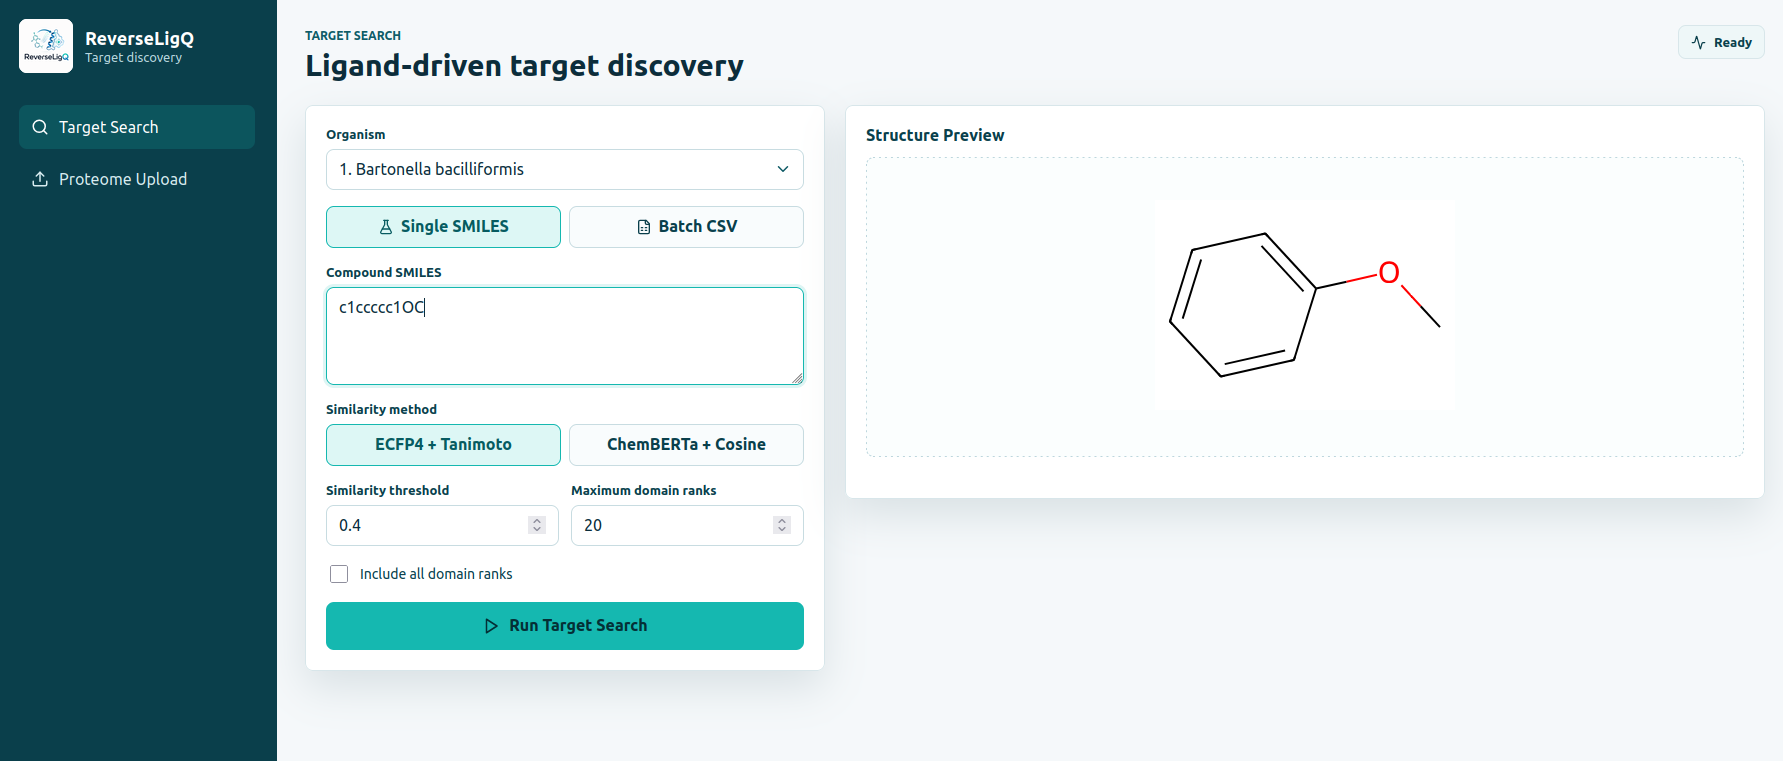
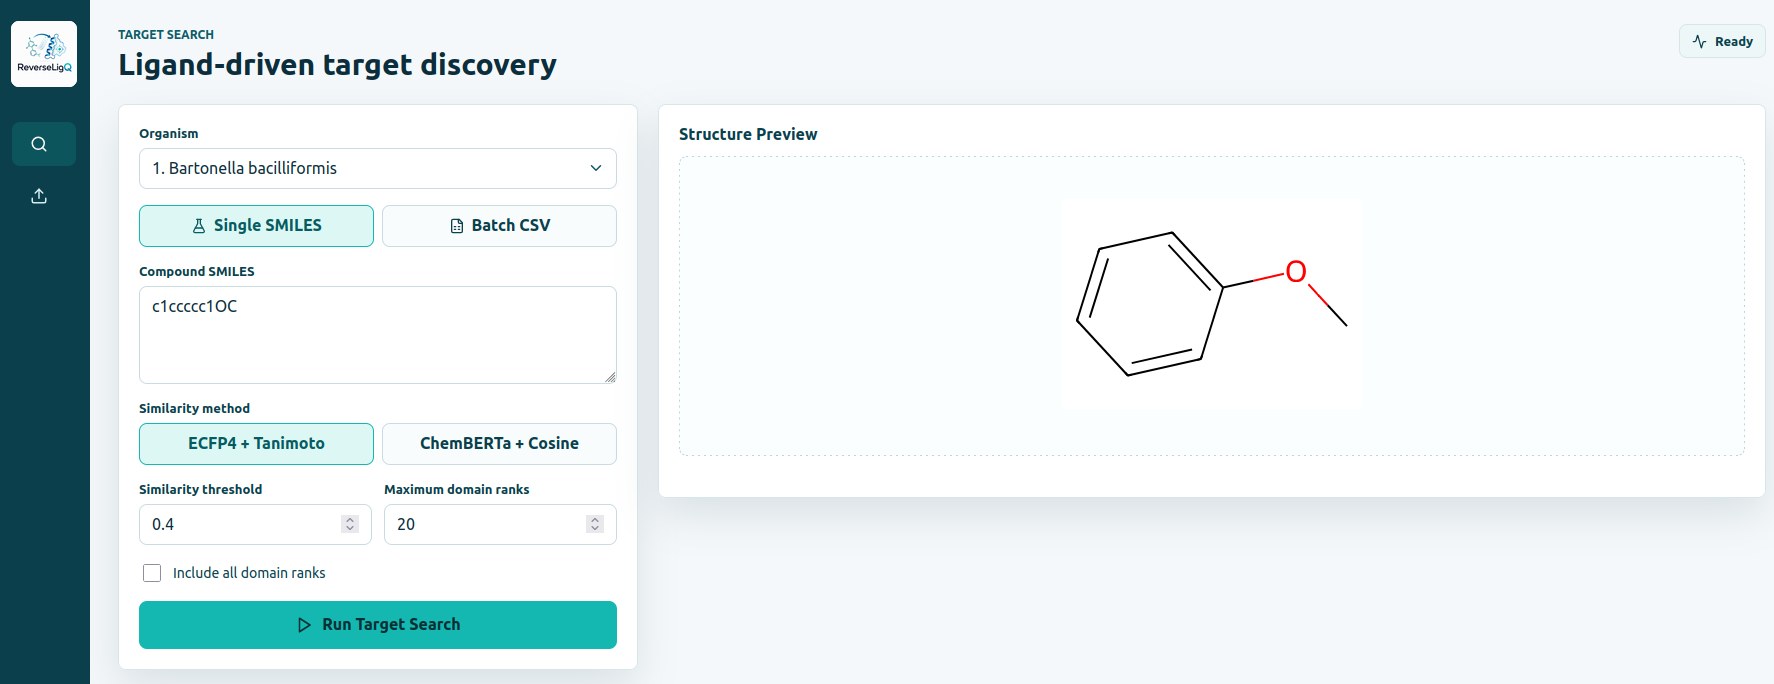
modified sidebar

diff --git a/web/frontend/src/styles.css b/web/frontend/src/styles.css
@@ -46,42 +46,53 @@ button {
 
 .app-shell {
   display: grid;
-  grid-template-columns: 280px minmax(0, 1fr);
+  grid-template-columns: 92px minmax(0, 1fr);
   min-height: 100vh;
 }
 
 .sidebar {
+  position: sticky;
+  top: 0;
+  z-index: 20;
+  width: 92px;
+  min-height: 100vh;
   background: var(--primary-dark);
   color: white;
-  padding: 22px;
+  padding: 20px 14px;
   display: flex;
   flex-direction: column;
-  gap: 32px;
+  gap: 30px;
+  overflow: hidden;
+  transition: width 0.22s ease, padding 0.22s ease, box-shadow 0.22s ease;
+}
+
+.sidebar:hover,
+.sidebar:focus-within {
+  width: 280px;
+  padding: 22px;
+  box-shadow: 14px 0 34px rgba(5, 38, 47, 0.18);
 }
 
 .brand {
   display: flex;
   align-items: center;
-  gap: 12px;
+  justify-content: center;
+  min-height: 76px;
 }
 
 .brand img {
-  width: 54px;
-  height: 54px;
+  width: 66px;
+  height: 66px;
   object-fit: contain;
   border-radius: 8px;
   background: white;
+  transition: width 0.22s ease, height 0.22s ease;
 }
 
-.brand strong {
-  display: block;
-  font-size: 18px;
-}
-
-.brand span {
-  display: block;
-  color: #b8d7df;
-  font-size: 13px;
+.sidebar:hover .brand img,
+.sidebar:focus-within .brand img {
+  width: 82px;
+  height: 82px;
 }
 
 .nav {
@@ -99,8 +110,35 @@ button {
   gap: 10px;
   min-height: 44px;
   border-radius: 8px;
-  padding: 0 12px;
+  padding: 0;
+  justify-content: center;
   text-align: left;
+  white-space: nowrap;
+  overflow: hidden;
+  transition: padding 0.22s ease;
+}
+
+.nav button svg {
+  flex: 0 0 auto;
+}
+
+.nav-label {
+  max-width: 0;
+  opacity: 0;
+  overflow: hidden;
+  transition: max-width 0.22s ease, opacity 0.16s ease;
+}
+
+.sidebar:hover .nav button,
+.sidebar:focus-within .nav button {
+  justify-content: flex-start;
+  padding: 0 12px;
+}
+
+.sidebar:hover .nav-label,
+.sidebar:focus-within .nav-label {
+  max-width: 180px;
+  opacity: 1;
 }
 
 .nav button.active,
@@ -667,10 +705,32 @@ td {
     position: sticky;
     top: 0;
     z-index: 10;
+    width: auto;
+    min-height: 0;
     flex-direction: row;
     align-items: center;
     justify-content: space-between;
     padding: 12px 16px;
+    overflow: visible;
+    box-shadow: none;
+  }
+
+  .sidebar:hover,
+  .sidebar:focus-within {
+    width: auto;
+    padding: 12px 16px;
+    box-shadow: none;
+  }
+
+  .brand {
+    min-height: 0;
+  }
+
+  .brand img,
+  .sidebar:hover .brand img,
+  .sidebar:focus-within .brand img {
+    width: 54px;
+    height: 54px;
   }
 
   .nav {
@@ -679,6 +739,14 @@ td {
 
   .nav button {
     justify-content: center;
+    padding: 0 12px;
+  }
+
+  .nav-label,
+  .sidebar:hover .nav-label,
+  .sidebar:focus-within .nav-label {
+    max-width: 180px;
+    opacity: 1;
   }
 
   .search-layout {

diff --git a/web/frontend/src/main.jsx b/web/frontend/src/main.jsx
@@ -104,19 +104,15 @@ function App() {
       <aside className="sidebar">
         <div className="brand">
           <img src="/api/assets/logo" alt="ReverseLigQ logo" />
-          <div>
-            <strong>ReverseLigQ</strong>
-            <span>Target discovery</span>
-          </div>
         </div>
         <nav className="nav">
-          <button className={cx(screen === "search" && "active")} onClick={() => setScreen("search")}>
+          <button className={cx(screen === "search" && "active")} onClick={() => setScreen("search")} aria-label="Target Search">
             <Search size={18} />
-            Target Search
+            <span className="nav-label">Target Search</span>
           </button>
-          <button className={cx(screen === "upload" && "active")} onClick={() => setScreen("upload")}>
+          <button className={cx(screen === "upload" && "active")} onClick={() => setScreen("upload")} aria-label="Proteome Upload">
             <Upload size={18} />
-            Proteome Upload
+            <span className="nav-label">Proteome Upload</span>
           </button>
         </nav>
       </aside>